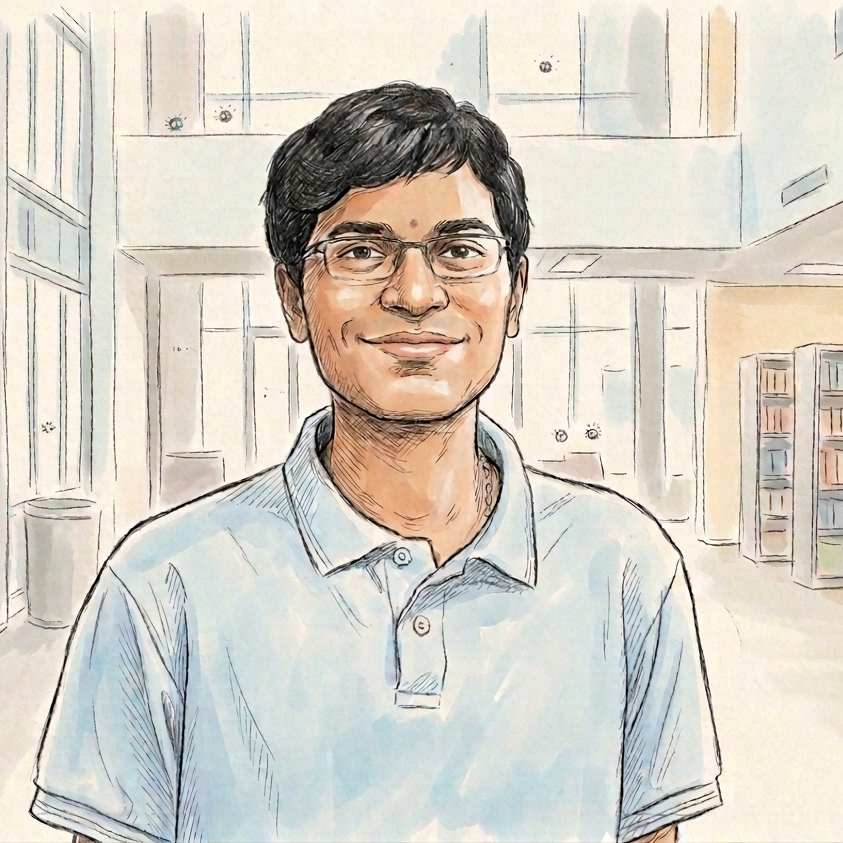
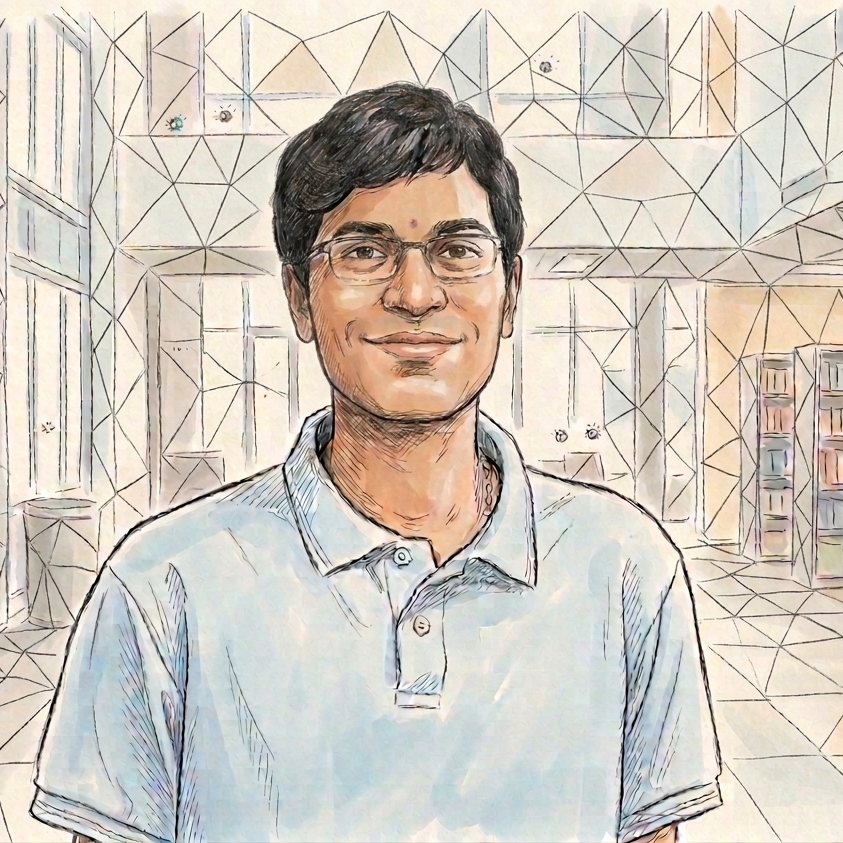
content: Update education credentials, profile photo, and add usage disclaimer
Replace education list with degree/role details only, refresh the
cropped profile photo, and add an image/video reuse disclaimer to
each research project page.

diff --git a/_pages/about.md b/_pages/about.md
@@ -13,9 +13,10 @@ profile:
     <p><strong>Advisor:</strong> Prof. Hector Gomez</p>
     <br>
     <p><strong>Education</strong></p>
-    <p>(2019&ndash;present) Ph.D., Purdue University</p>
-    <p>(2017&ndash;2019) Research, ETH Zurich</p>
-    <p>(2013&ndash;2017) B.Tech., NIT Karnataka</p>
+    <p>Postdoctoral Research Associate, Caltech, USA</p>
+    <p>Ph.D. in Mechanical Engineering (Minor in Computational Science &amp; Engineering), Purdue University, USA</p>
+    <p>M.Sc. in Mechanical Engineering (Specialization in Fluid Science &amp; Engineering), ETH Zurich, Switzerland</p>
+    <p>B.Tech in Mechanical Engineering, National Institute of Technology Karnataka, Surathkal, India</p>
 
 selected_papers: false
 social: true

diff --git a/_projects/3_fsi.md b/_projects/3_fsi.md
@@ -107,3 +107,9 @@ Using direct numerical simulations of `two-fluid fluid-structure interactions` i
   {% bibliography --query @*[key=bhopalam2026simulating] --template bib_reference %}
   {% bibliography --query @*[key=bhopalam2024fibrotaxis] --template bib_reference %}
 </div>
+
+<div class="disclaimer mt-4" markdown="1">
+Any reproduction or reuse of any images, or videos on this web page require the explicit permission of Sthavishtha Bhopalam &lt;sbhopala(at)caltech(dot)edu&gt;
+
+*Disclaimer*: Any opinions, findings, conclusions, or recommendations expressed on this webpage are those of the author(s) and do not reflect the views of any entities named or implied.
+</div>

diff --git a/_projects/1_computational_mechanics.md b/_projects/1_computational_mechanics.md
@@ -80,3 +80,9 @@ Several continuum models have been developed to study the multiphysics behavior 
   {% bibliography --query @*[key=bhopalam2026simulating] --template bib_reference %}
   {% bibliography --query @*[key=bhopalam2026tbd2] --template bib_reference %}
 </div>
+
+<div class="disclaimer mt-4" markdown="1">
+Any reproduction or reuse of any images, or videos on this web page require the explicit permission of Sthavishtha Bhopalam &lt;sbhopala(at)caltech(dot)edu&gt;
+
+*Disclaimer*: Any opinions, findings, conclusions, or recommendations expressed on this webpage are those of the author(s) and do not reflect the views of any entities named or implied.
+</div>

diff --git a/_projects/2_multiphase_flows.md b/_projects/2_multiphase_flows.md
@@ -108,3 +108,9 @@ Turbulent reacting sprays are ubiquitous in gas turbines and internal combustion
   {% bibliography --query @*[key=bhopalam2026tbd3] --template bib_reference %}
   {% bibliography --query @*[key=weiss2021droplets] --template bib_reference %}
 </div>
+
+<div class="disclaimer mt-4" markdown="1">
+Any reproduction or reuse of any images, or videos on this web page require the explicit permission of Sthavishtha Bhopalam &lt;sbhopala(at)caltech(dot)edu&gt;
+
+*Disclaimer*: Any opinions, findings, conclusions, or recommendations expressed on this webpage are those of the author(s) and do not reflect the views of any entities named or implied.
+</div>
